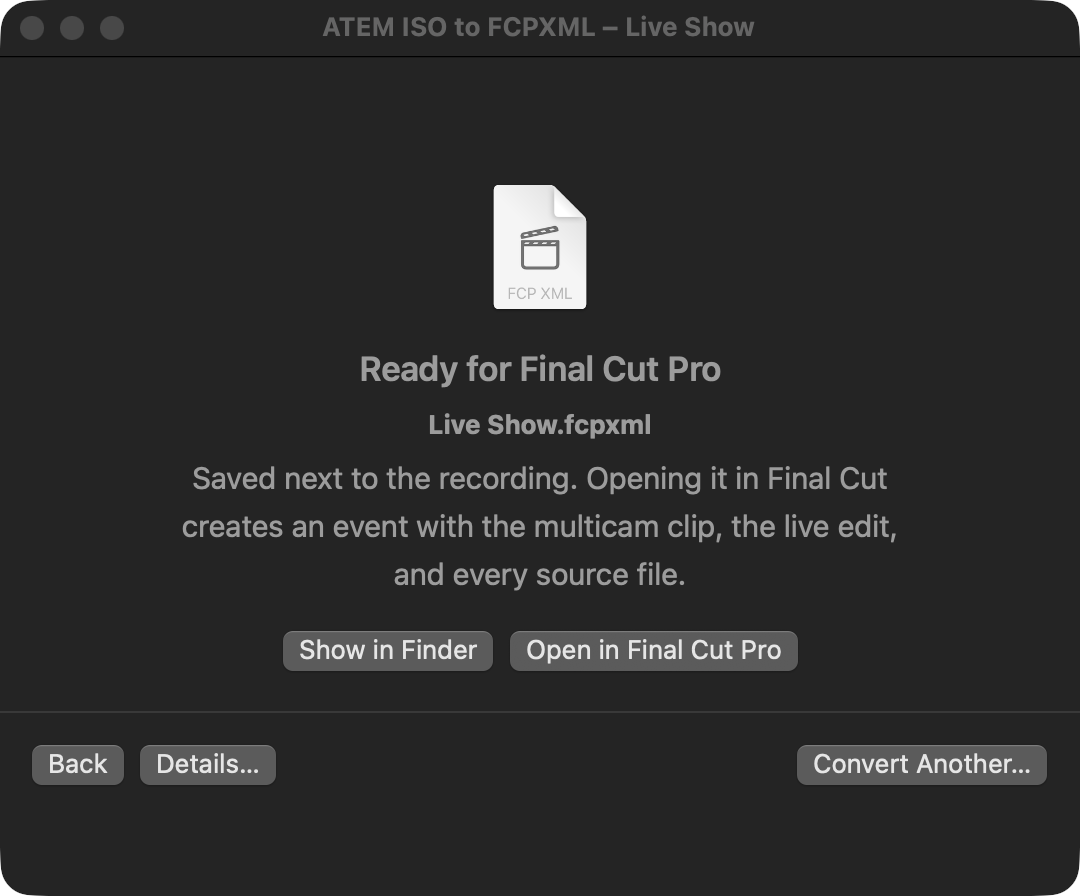
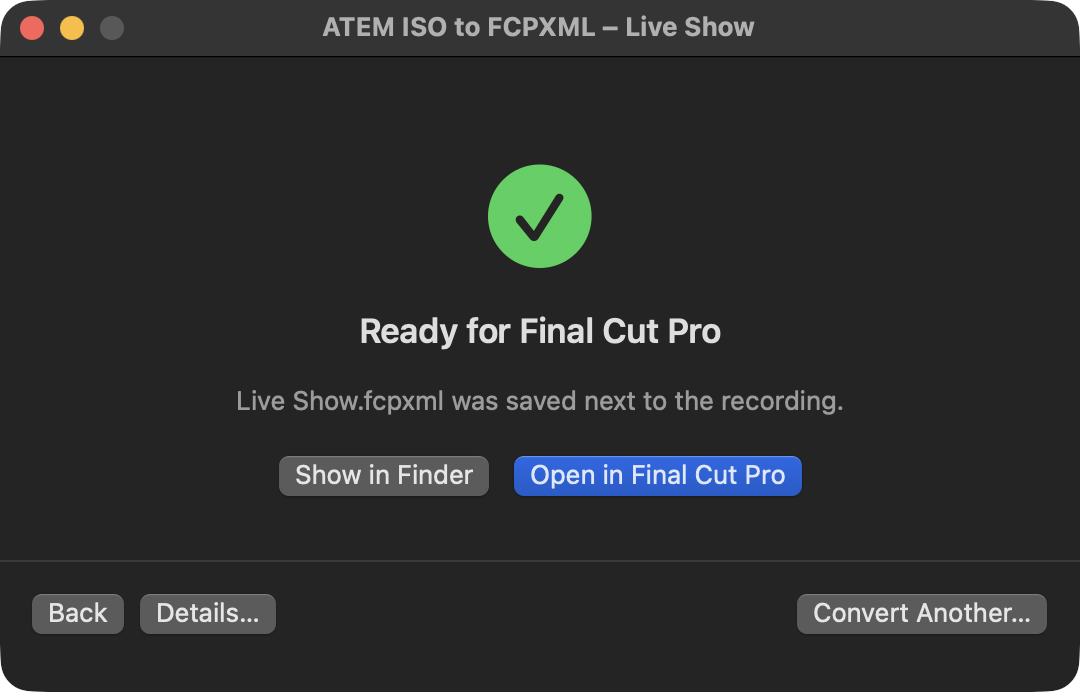
Tighten the completion view: SF Symbol, one line of copy, content-sized window

diff --git a/Sources/ATEMISOtoFCPXML/ContentView.swift b/Sources/ATEMISOtoFCPXML/ContentView.swift
@@ -50,7 +50,7 @@ extension ContentView {
         switch model.phase {
         case .empty, .loading, .converting: 420
         case .ready: 820
-        case .done: 420
+        case .done: 318
         }
     }
 }
@@ -265,27 +265,30 @@ struct DoneView: View {
 
     var body: some View {
         VStack(spacing: 0) {
-            ContentUnavailableView {
-                VStack(spacing: 12) {
-                    if let output = model.output {
-                        Image(nsImage: NSWorkspace.shared.icon(forFile: output.path)).resizable().frame(width: 72, height: 72)
-                    }
-                    Text("Ready for Final Cut Pro").font(.title2.weight(.semibold))
-                }
-            } description: {
-                VStack(spacing: 6) {
-                    Text(model.output?.lastPathComponent ?? "").font(.headline).textSelection(.enabled)
-                    Text("Saved next to the recording. Opening it in Final Cut creates an event with the multicam clip, the live edit, and every source file.")
-                }
-            } actions: {
-                HStack {
+            VStack(spacing: 14) {
+                Image(systemName: "checkmark.circle.fill")
+                    .font(.system(size: 52, weight: .regular))
+                    .foregroundStyle(.green)
+                    .accessibilityHidden(true)
+                Text("Ready for Final Cut Pro")
+                    .font(.title2.weight(.semibold))
+                Text("\(model.output?.lastPathComponent ?? "") was saved next to the recording.")
+                    .foregroundStyle(.secondary)
+                    .multilineTextAlignment(.center)
+                    .fixedSize(horizontal: false, vertical: true)
+                HStack(spacing: 12) {
                     Button("Show in Finder") { model.revealInFinder() }
                     Button("Open in Final Cut Pro") { model.openInFinalCut() }
                         .buttonStyle(.borderedProminent)
                         .keyboardShortcut(.defaultAction)
                 }
                 .fixedSize()
+                .padding(.top, 6)
             }
+            .padding(.horizontal, 32)
+            .padding(.top, 36)
+            .padding(.bottom, 32)
+            .frame(maxWidth: .infinity)
 
             Divider()
             HStack {

diff --git a/docs/site/index.html b/docs/site/index.html
@@ -235,7 +235,7 @@
 <div class="screenshots">
 <figure><img src="images/01-open.png" width="1080" height="896" loading="lazy" alt="The empty ATEM ISO to FCPXML window inviting you to drop a recording folder or choose one"><figcaption><h3>Open a recording</h3><p>Drop the folder from the SSD, choose it, or double-click the .drp.</p></figcaption></figure>
 <figure><img src="images/02-choices.png" width="1080" height="1696" loading="lazy" alt="The choices form showing the recording with a colored timeline of the live switch, camera checkboxes, a soundtrack popup, extra audio checkboxes, and options"><figcaption><h3>Confirm cameras and audio</h3><p>Inputs used live start checked. One soundtrack; mics as separate angles.</p></figcaption></figure>
-<figure><img src="images/03-done.png" width="1080" height="896" loading="lazy" alt="The completion view with Open in Final Cut Pro and Show in Finder buttons"><figcaption><h3>Open in Final Cut Pro</h3><p>The XML is saved next to the recording and opens straight into Final Cut.</p></figcaption></figure>
+<figure><img src="images/03-done.png" width="1080" height="692" loading="lazy" alt="The completion view: a green checkmark, Ready for Final Cut Pro, and Open in Final Cut Pro and Show in Finder buttons"><figcaption><h3>Open in Final Cut Pro</h3><p>The XML is saved next to the recording and opens straight into Final Cut.</p></figcaption></figure>
 </div>
 </div>
 </section>
